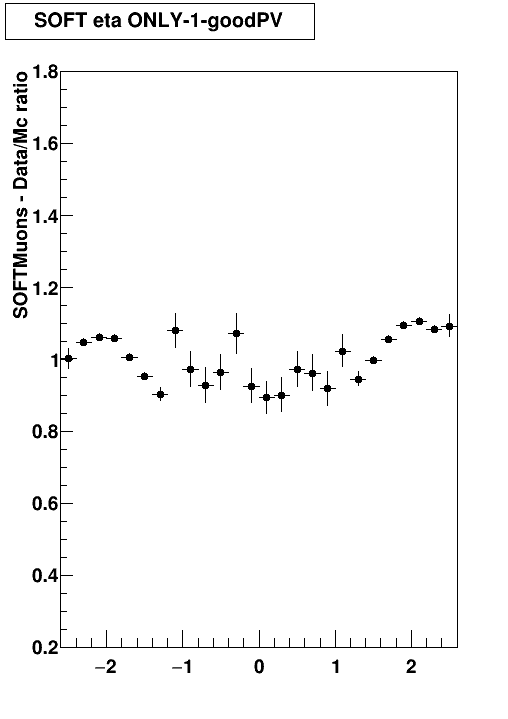
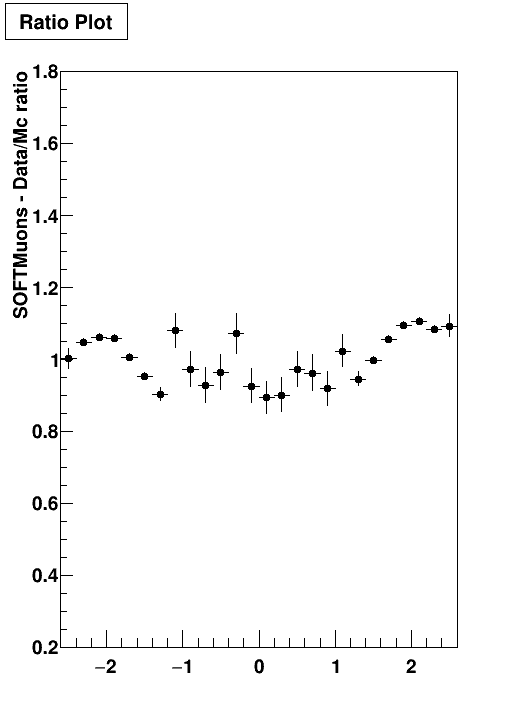
debug

Changed region(s): [[0.0295, 0.0, 0.561, 0.0612]]

diff --git a/stacked_plot/stacked_plot.C b/stacked_plot/stacked_plot.C
@@ -235,21 +235,20 @@ void stacked_plot(const TString &estensione, const TString &tipoMuone, const TSt
     histoRapporto->SetMinimum(0.2); 
     histoRapporto->SetMaximum(1.8); 
 
-    // Aggiustamento titolo 
+    // Aggiustamento titoli
     histoRapporto->GetYaxis()->SetTitle(tipoMuone + "Muons - Data/Mc ratio"); 
     histoRapporto->GetYaxis()->SetTitleOffset(1.25); 
+    TString titoloHisto{"Ratio Plot"}; 
+    if (rebin) titoloHisto += "Rebinned"; 
+    histoRapporto->SetTitle(titoloHisto); 
+
     histoRapporto->Draw("EP"); 
 
     // Salvo il ratio plot
     TString fileName{outPath + "ratio_plot_"}; 
-    if (rebin) {
-        fileName += "rebinned_" + nomeBasePlots;
-    } else {
-        fileName += nomeBasePlots;
-    }
-    
+    if (rebin) fileName += "rebinned_" + nomeBasePlots;
+    else fileName += nomeBasePlots;
     c1->SaveAs(fileName); 
-
 
     // Cancello i puntatori di cui non ho più bisogno
     delete c1;
